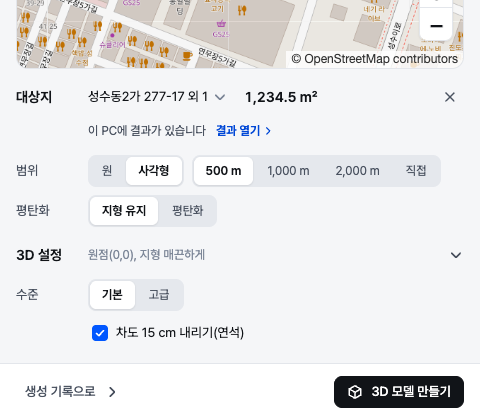
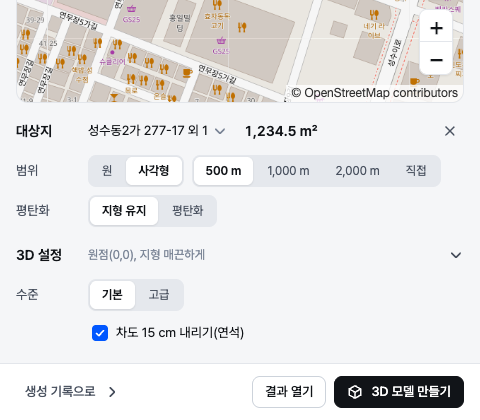
생성 기록에서 온 대상지의 '결과 열기'를 트레이 줄에서 아래 줄 [결과 열기] [3D 모델 만들기]로(아이콘 없이 — 폴더 모양은 폴더를 여는 것 같았다)

diff --git a/scripts/site_ui.html b/scripts/site_ui.html
@@ -226,9 +226,7 @@ body[data-screen="history"] section[data-screen="history"] { display: block; ove
 #hist_menu button:hover, #hist_menu button:focus-visible { background: var(--hover); }
 .tray-h .hist-link { margin-left: auto; height: 20px; padding: 0 2px; border: 0; background: none; color: inherit; font: inherit; display: inline-flex; align-items: center; gap: 2px; }   /* 머리 글씨와 같은 크기·색(파란 링크가 튀었다 — 2026-11-27 사용자) */
 .tray-h .hist-link:hover { color: var(--ink); }
-.hist-result { min-height: 28px; margin-top: -6px; }   /* 대상지 줄 아래 한 줄 — '이 PC에 결과가 있습니다 · 결과 열기 ›' */
-.hist-result .hist-link { height: 24px; padding: 0 2px; border: 0; background: none; color: var(--accent-ink); font: inherit; font-size: 12px; font-weight: 600; display: inline-flex; align-items: center; gap: 2px; }
-.hist-result .hist-link .ico { width: 12px; height: 12px; }
+.foot-acts { display: flex; gap: 8px; align-items: center; }   /* 아래 줄 오른쪽 단추 둘 — [결과 열기] [3D 모델 만들기] */
 .tray-h .hist-link .ico { width: 12px; height: 12px; }
 #acct_pop .pop-link { display: flex; align-items: center; gap: 8px; width: 100%; height: 40px; padding: 0 12px; border: 0; border-top: 1px solid var(--line); background: none; color: var(--ink); text-align: left; }
 #acct_pop .pop-link:hover { background: var(--hover); }
@@ -858,8 +856,10 @@ function renderFooter() {
     html = (state.fromHist && HIST && HIST.can() && !draw.on && !stamp.on ? '<button type="button" class="btn ghost" data-act="hist_open">' + tr("생성 기록으로") + ico("next") + "</button>"   // 생성 기록에서 골라 왔으면 그리로(2026-11-27 사용자)
       : canReturn() && !draw.on && !stamp.on ? '<button type="button" class="btn ghost" data-act="to_result" title="' + esc(lastLabel()) + '">' + tr("결과로 돌아가기") + ico("next") + "</button>"
         : '<span class="hint">' + (can ? (again ? tr("이 대상지의 이전 3D를 새것으로 바꿉니다") : "") : state.mode === "area" && draw.on ? tr("구역을 닫으면 만들 수 있습니다") : "") + "</span>") +
+      (state.fromHist && state.histDir && !draw.on && !stamp.on ? '<div class="foot-acts"><button type="button" class="btn" data-act="hist_result_open" title="' + tr("다시 만들지 않고 이 PC의 지난 결과를 엽니다(2D 만들기)") + '">' + tr("결과 열기") + "</button>" : "") +   // 생성 기록에서 이 PC 결과가 있는 기록을 골라 왔을 때(2026-11-27 사용자)
       '<button type="button" class="btn primary" data-act="generate"' + (can ? "" : " disabled") +
-        (again ? ' title="' + tr("{0} 파일의 이 대상지 3D를 지우고 새로 넣습니다. 이전 결과 폴더는 그대로 남습니다", esc(hostName())) + '"' : "") + ">" + ico("cube") + (again ? tr("3D 모델 다시 만들기") : tr("3D 모델 만들기")) + "</button>";
+        (again ? ' title="' + tr("{0} 파일의 이 대상지 3D를 지우고 새로 넣습니다. 이전 결과 폴더는 그대로 남습니다", esc(hostName())) + '"' : "") + ">" + ico("cube") + (again ? tr("3D 모델 다시 만들기") : tr("3D 모델 만들기")) + "</button>" +
+      (state.fromHist && state.histDir && !draw.on && !stamp.on ? "</div>" : "");
   } else if (r === "running") {
     html = "";
   } else if (r === "done" && state.styleOpen) {
@@ -922,7 +922,7 @@ function renderTray() {
   var slot = $("tray"); if (!slot) return;
   var open = { s3d: !!($("s3d") && $("s3d").open), more: !!($("lot_more") && $("lot_more").open) };
   if (!slot.dataset.scrollWatch) { slot.dataset.scrollWatch = "1"; slot.addEventListener("scroll", function () { slot.classList.toggle("scrolled", slot.scrollTop > 0); }); }
-  slot.innerHTML = targetHtml(open.more) + (hasTarget() && !busyTarget() ? histResultHtml() + rangeHtml() + settingsHtml(open.s3d) + levelHtml() : emptyTrayHtml()) + '<div id="tray_err"></div>';
+  slot.innerHTML = targetHtml(open.more) + (hasTarget() && !busyTarget() ? rangeHtml() + settingsHtml(open.s3d) + levelHtml() : emptyTrayHtml()) + '<div id="tray_err"></div>';
   slot.classList.toggle("scrolled", slot.scrollTop > 0);
   updateSummaries(); updateGuide(); renderFooter();
 }
@@ -1014,11 +1014,6 @@ function targetHtml(moreOpen) {
   var p = state.point; if (!p) return "";
   return '<div class="trow"><span class="lbl strong">' + tr("대상지") + '</span><span class="tval">' + esc(placeName(p)) + "</span>" +
     '<span class="end">' + clearBtn("point_clear") + "</span></div>";
-}
-// 생성 기록에서 골라 온 대상지에 이 PC 결과가 있으면 — 다시 만들지 않고 그 결과(2D 만들기)로 가는 길(2026-11-27 사용자)
-function histResultHtml() {
-  if (!state.fromHist || !state.histDir) return "";
-  return '<div class="trow hist-result"><span class="lbl"></span><span class="hint">' + tr("이 PC에 결과가 있습니다") + '</span><button type="button" class="hist-link" data-act="hist_result_open">' + tr("결과 열기") + ico("next") + "</button></div>";
 }
 function rangeHtml() {
   var o = state.options, rect = o.shape === "rect", custom = SIZE_PRESETS.indexOf(o.radius) < 0;
@@ -2866,7 +2861,7 @@ HIST = {
     var rs = { target: { mode: it.mode, pnus: t.pnus || [] }, target_lnglat: { center: it.center, ring: t.ring || [], rings: t.ring ? [t.ring] : [] }, options: it.options || {} };
     go("map");
     if (!restoreResultTarget(rs)) toast(tr("이 기록은 지도에 되살릴 수 없습니다"));
-    state.fromHist = true; state.histDir = it.dir || ""; renderTray();   // 아래 줄 왼쪽 '생성 기록으로 ›'·트레이 '결과 열기' — resetLots가 go("map")으로 끄므로 되살린 뒤에 켠다
+    state.fromHist = true; state.histDir = it.dir || ""; renderFooter();   // 아래 줄 왼쪽 '생성 기록으로 ›'·오른쪽 [결과 열기] — resetLots가 go("map")으로 끄므로 되살린 뒤에 켠다
     track("history_restore", it.mode || "");
   },
   toggleStar: function (id) {
